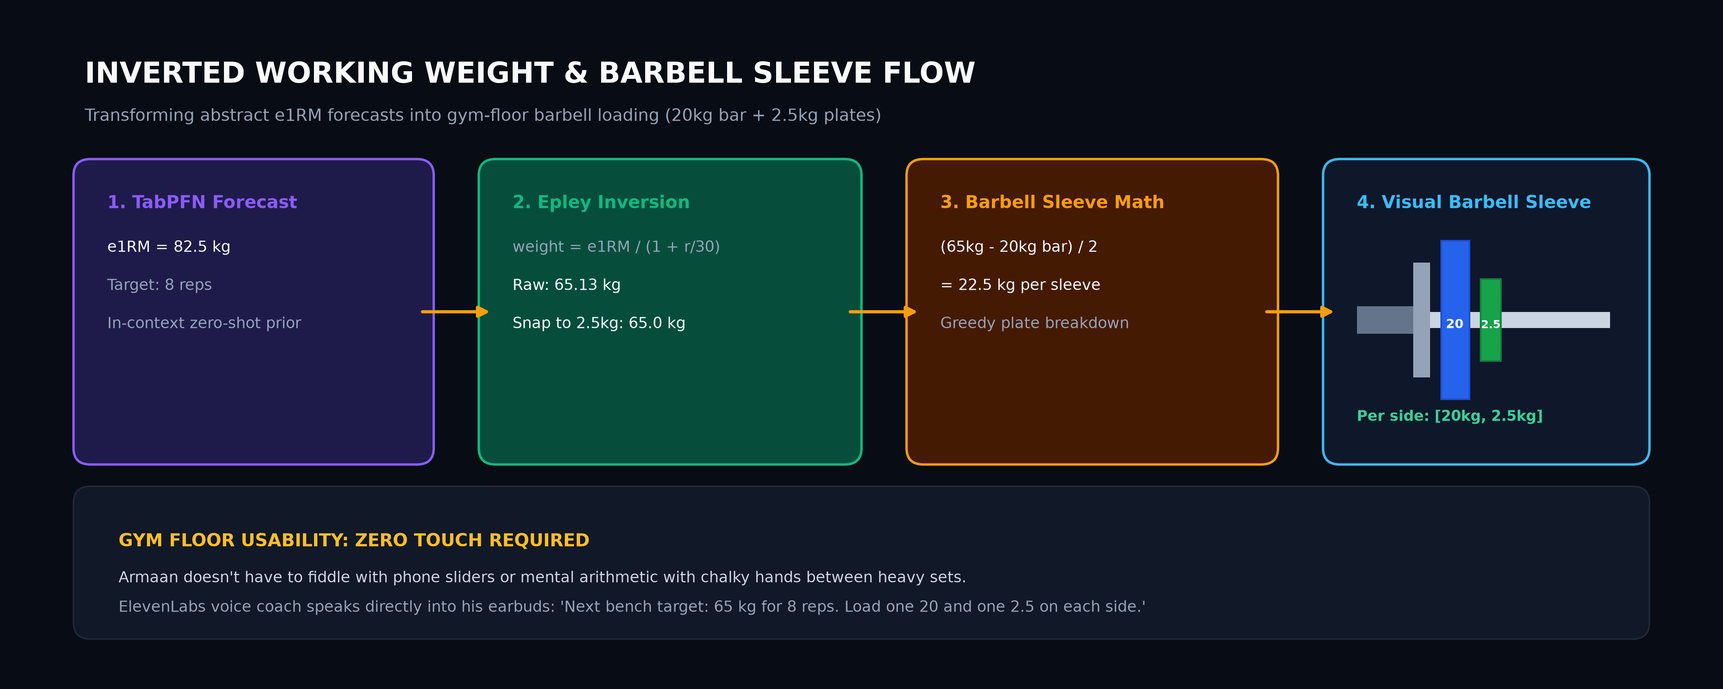
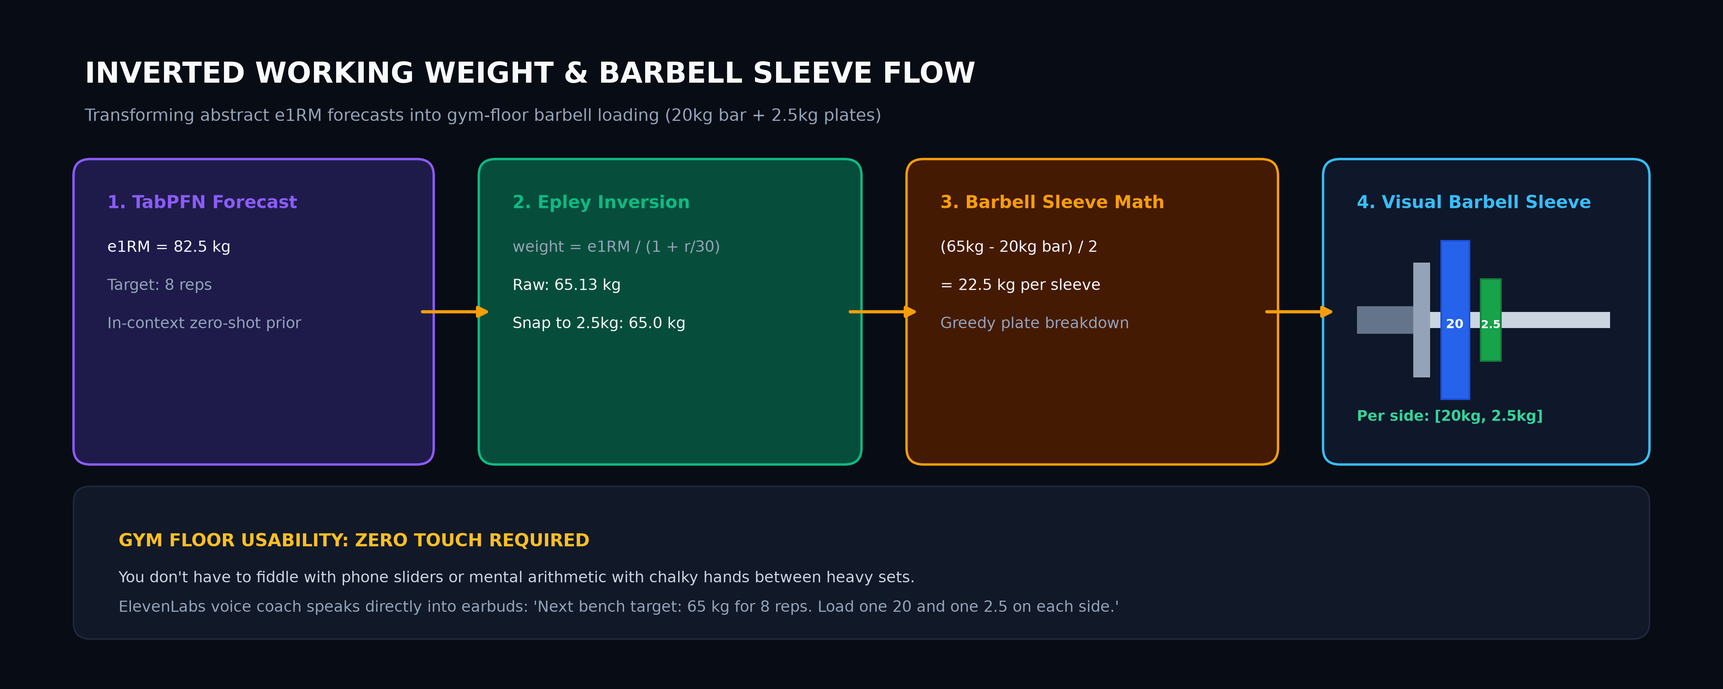
docs: generalize personal references for privacy and update submission categories

diff --git a/docs/assets/liftcast_architecture.html b/docs/assets/liftcast_architecture.html
@@ -5055,15 +5055,15 @@ OTHER DEALINGS IN THE FONT SOFTWARE.
         </g>
 
         <!-- Components -->
-        <g id="node-user" data-node-id="user" data-node-label="Armaan (User)" tabindex="0" role="button" aria-label="Focus Armaan (User), Informal 10s log, Architecture component" aria-pressed="false" data-node-kind="external" data-node-sublabel="Informal 10s log" data-node-context="Architecture component">
-          <title>Armaan (User) · Informal 10s log · Architecture component</title>
+        <g id="node-user" data-node-id="user" data-node-label="Lifter (User)" tabindex="0" role="button" aria-label="Focus Lifter (User), Informal 10s log, Architecture component" aria-pressed="false" data-node-kind="external" data-node-sublabel="Informal 10s log" data-node-context="Architecture component">
+          <title>Lifter (User) · Informal 10s log · Architecture component</title>
           <rect x="50" y="160" width="140" height="60" rx="6" class="c-mask"/>
           <rect x="50" y="160" width="140" height="60" rx="6" class="c-external" stroke-width="1.5"/>
           <g aria-hidden="true" data-semantic-sigil="external" class="semantic-sigil s-external" transform="translate(56 166) scale(0.6875)">
             <rect x="2.5" y="5" width="8.5" height="8" rx="1.5"/>
             <path d="M8 2.5h5.5V8M13.5 2.5 7.5 8.5"/>
           </g>
-          <text data-node-label="" data-detail-anchor="" x="120" y="188" class="t-primary" font-size="11" font-weight="600" text-anchor="middle">Armaan (User)</text>
+          <text data-node-label="" data-detail-anchor="" x="120" y="188" class="t-primary" font-size="11" font-weight="600" text-anchor="middle">Lifter (User)</text>
         <text data-detail="context" x="120" y="204" class="t-muted" font-size="9" text-anchor="middle">Informal 10s log</text>
         </g>
 

diff --git a/scripts/render_diagrams_png.py b/scripts/render_diagrams_png.py
@@ -51,7 +51,7 @@ def create_architecture_diagram(output_path: Path) -> None:
         ax.text(x + 0.15, y + 0.2, sublabel, fontsize=8.5, color="#94A3B8", family="sans-serif")
 
     # Column 1: Inputs
-    draw_box(0.9, 5.2, 2.3, 1.5, "Armaan (User)", "Informal 10s text log\n'bench 60 8 8 7'", "INPUT", "#111827", "#475569", "#94A3B8")
+    draw_box(0.9, 5.2, 2.3, 1.5, "Lifter (User)", "Informal 10s text log\n'bench 60 8 8 7'", "INPUT", "#111827", "#475569", "#94A3B8")
     draw_box(0.9, 2.4, 2.3, 1.5, "importer.py", "Liftoff CSV Sanitizer\nStripped health notes", "SANITIZER", "#111827", "#475569", "#EF4444")
 
     # Column 2: Parser & DB
@@ -196,8 +196,8 @@ def create_plate_loader_diagram(output_path: Path) -> None:
     card = patches.FancyBboxPatch((0.6, 0.4), 13.8, 1.2, boxstyle="round,pad=0.1,rounding_size=0.15", linewidth=1, edgecolor="#1E293B", facecolor="#111827")
     ax.add_patch(card)
     ax.text(0.9, 1.15, "GYM FLOOR USABILITY: ZERO TOUCH REQUIRED", fontsize=11, fontweight="bold", color="#FBBF24")
-    ax.text(0.9, 0.82, "Armaan doesn't have to fiddle with phone sliders or mental arithmetic with chalky hands between heavy sets.", fontsize=9.5, color="#CBD5E1")
-    ax.text(0.9, 0.55, "ElevenLabs voice coach speaks directly into his earbuds: 'Next bench target: 65 kg for 8 reps. Load one 20 and one 2.5 on each side.'", fontsize=9.5, color="#94A3B8")
+    ax.text(0.9, 0.82, "You don't have to fiddle with phone sliders or mental arithmetic with chalky hands between heavy sets.", fontsize=9.5, color="#CBD5E1")
+    ax.text(0.9, 0.55, "ElevenLabs voice coach speaks directly into earbuds: 'Next bench target: 65 kg for 8 reps. Load one 20 and one 2.5 on each side.'", fontsize=9.5, color="#94A3B8")
 
     plt.tight_layout()
     plt.savefig(output_path, dpi=300, facecolor=fig.get_facecolor(), edgecolor="none")

diff --git a/tests/test_voice.py b/tests/test_voice.py
@@ -42,8 +42,8 @@ def stalled_stats_payload():
 
 
 def test_build_audio_briefing_script_normal(sample_stats_payload):
-    script = build_audio_briefing_script(sample_stats_payload, user_name="Armaan")
-    assert "Armaan" in script
+    script = build_audio_briefing_script(sample_stats_payload, user_name="Friend")
+    assert "Friend" in script
     assert "Bench Press" in script
     assert "75" in script
     # Verify script satisfies numeric guard
@@ -53,7 +53,7 @@ def test_build_audio_briefing_script_normal(sample_stats_payload):
 
 
 def test_build_audio_briefing_script_stalled(stalled_stats_payload):
-    script = build_audio_briefing_script(stalled_stats_payload, user_name="Armaan")
+    script = build_audio_briefing_script(stalled_stats_payload, user_name="Friend")
     assert "Lat Pulldown" in script
     assert "62" in script
     assert "deload" in script.lower() or "flattened" in script.lower()
@@ -61,13 +61,13 @@ def test_build_audio_briefing_script_stalled(stalled_stats_payload):
 
 def test_build_audio_briefing_script_empty():
     empty_payload = {"sessions_this_week": 2, "lifts": {}}
-    script = build_audio_briefing_script(empty_payload, user_name="Armaan")
-    assert "Armaan" in script
+    script = build_audio_briefing_script(empty_payload, user_name="Friend")
+    assert "Friend" in script
     assert "2 session" in script
 
 
 def test_synthesize_voice_no_api_key():
-    result = synthesize_voice_elevenlabs("Great workout Armaan!", api_key=None)
+    result = synthesize_voice_elevenlabs("Great workout Friend!", api_key=None)
     assert isinstance(result, VoiceResult)
     assert result.provider == "browser_speech"
     assert result.audio_bytes is None

diff --git a/src/liftcast/voice.py b/src/liftcast/voice.py
@@ -1,8 +1,8 @@
 """ElevenLabs Voice Coach & Audio Briefing module for LiftCast.
 
-Built for the "Build for a Friend" challenge: when Armaan finishes his final set,
-his hands are chalky and he's re-racking weights. Rather than reading a screen,
-he hears a 10-second punchy voice briefing through his gym earbuds.
+Built for the "Build for a Friend" challenge: when my friend finishes their final set,
+their hands are chalky and they're re-racking weights. Rather than reading a screen,
+they hear a 10-second punchy voice briefing through gym earbuds.
 
 Privacy Guarantee:
 - Only the 2-sentence, already-sanitized coach script is sent to the TTS API.
@@ -39,7 +39,7 @@ class VoiceResult:
     error_message: Optional[str] = None
 
 
-def build_audio_briefing_script(payload: dict[str, Any], user_name: str = "Armaan") -> str:
+def build_audio_briefing_script(payload: dict[str, Any], user_name: str = "Friend") -> str:
     """Build a punchy, 2-sentence voice script from the audited stats payload.
     
     Guaranteed: Every number is derived from the payload to prevent hallucination.

diff --git a/app.py b/app.py
@@ -1,6 +1,6 @@
 """LiftCast — Local-First AI Workout Logger & Progress Forecaster.
 
-Built for Armaan for the DEV Hacktoberfest 2026 Challenge ("Build for a Friend").
+Built for a friend for the DEV Hacktoberfest 2026 Challenge ("Build for a Friend").
 Local Gemma parses free text; local TabPFN forecasts progress; deterministic core detects stalls.
 100% offline, zero cloud egress, strict privacy.
 """
@@ -880,7 +880,7 @@ elif page == "Coach Recap":
         st.subheader("Audio Briefing")
         st.caption("Spoken summary of weekly training numbers.")
 
-        audio_script = build_audio_briefing_script(stats_payload, user_name="Armaan")
+        audio_script = build_audio_briefing_script(stats_payload, user_name="Friend")
         generate_voice_clicked = st.button("Generate Audio Briefing")
 
         if generate_voice_clicked or "voice_briefing_result" in st.session_state:

diff --git a/src/liftcast/coach.py b/src/liftcast/coach.py
@@ -17,7 +17,7 @@ import ollama
 
 logger = logging.getLogger(__name__)
 
-COACH_SYSTEM_PROMPT = """You are a direct, grounded lifting coach summarizing weekly progress for Armaan.
+COACH_SYSTEM_PROMPT = """You are a direct, grounded lifting coach summarizing weekly progress for a lifter.
 STRICT CONTRACT:
 1. You may ONLY reference numbers that appear in the provided STATS PAYLOAD. Never invent weights, reps, dates, or percentages.
 2. Word limit: 120 words maximum. Be punchy and actionable.

diff --git a/PROJECT.md b/PROJECT.md
@@ -8,7 +8,7 @@
 
 ## 1. Problem
 
-**User:** Armaan — a college student who lifts regularly but has never logged a session.
+**User:** A friend — a college student who lifts regularly but has never logged a session.
 
 **Why he doesn't log:** every tracker wants structured input mid-set (pick exercise from a menu,
 type weight, type reps, repeat). The friction is higher than the perceived value, so he logs nothing,
@@ -18,7 +18,7 @@ and therefore can't tell whether he's progressing or stuck.
 1. Logging that costs ~10 seconds: type it the way you'd text a friend.
 2. A clear answer to "am I progressing on this lift?" — and an early warning when he's stalling.
 
-**What success looks like for Armaan:** after a session, he types one message and sees his trend,
+**What success looks like:** after a session, he types one message and sees his trend,
 his forecast, and whether anything is stalling — with no data leaving his laptop.
 
 ---
@@ -44,7 +44,7 @@ his forecast, and whether anything is stalling — with no data leaving his lapt
 
 | ID | Story | Acceptance criteria |
 |---|---|---|
-| US1 | As Armaan, I type "bench 60 8 8 7, last set died" and it's saved correctly. | Parsed to Bench Press, 60 kg, sets of 8/8/7, note "last set died"; shown for confirmation before saving; `raw_text` stored. |
+| US1 | As a lifter, I type "bench 60 8 8 7, last set died" and it's saved correctly. | Parsed to Bench Press, 60 kg, sets of 8/8/7, note "last set died"; shown for confirmation before saving; `raw_text` stored. |
 | US2 | When the parser is unsure, it asks instead of guessing. | Unknown exercise or missing weight/reps → UI confirmation prompt; nothing silently saved. |
 | US3 | I see my trend and forecast for a lift. | Chart: actual top-set e1RM per session + forecast for next session (+ band if TabPFN provides intervals). |
 | US4 | I'm warned when a lift stalls. | Stall flag per lift per the finalized rule (§8); explanation states window and slope. |
@@ -179,7 +179,7 @@ def parse_log(text: str, model: str = "gemma4:e2b") -> ParseResult
 - Model options: `num_ctx=8192`, `temperature=0`.
 
 ### 6.4 Test set
-- `tests/fixtures/parser_cases.json`: Armaan's 5 real lines (**TODO**) + ~15 edge cases:
+- `tests/fixtures/parser_cases.json`: 5 real shorthand lines (**TODO**) + ~15 edge cases:
   shorthand ("bp"), typos ("bech"), Hinglish ("aaj bench 60 pe 8 reps"), lb input, bodyweight
   exercise without weight, multiple exercises in one message, "same as last time".
 - Unit tests mock Ollama. A separate, manual `scripts/eval_parser.py` runs the real model on the
@@ -321,7 +321,7 @@ Run: `pytest -q`. Core modules (`metrics`, `detect`, importer transforms) should
 |---|---|---|
 | TabPFN weights need HF login/license | Medium | Verify first thing during setup |
 | VRAM contention (Gemma + TabPFN) | Medium | TabPFN forced to CPU |
-| E2B misparses Armaan's style | Medium | Confirmation step; fixtures; try E4B |
+| E2B misparses user shorthand style | Medium | Confirmation step; fixtures; try E4B |
 | TabPFN doesn't beat Trend-5 | High on linear lifts | Report honestly; frame per-lift findings |
 | Stall rule weak discrimination | High | Pre-registered experiment; state evidence limits |
 | Unit assumption wrong (2.2 vs 2.2046) | Low | Confirm in app; one constant to change |
@@ -336,7 +336,7 @@ Run: `pytest -q`. Core modules (`metrics`, `detect`, importer transforms) should
 | Sat (rest of day) | importer + tests; metrics + tests; forecast + baselines; **eval table** |
 | Sun 09:00–13:00 | stall experiment → detect.py; parser + fixtures; coach + guard |
 | Sun 13:00–16:00 | Streamlit UI; tiers (if source chosen) |
-| Sun 16:00–18:00 | Hand to Armaan; record reaction verbatim; 1–2 min demo video |
+| Sun 16:00–18:00 | Hand to friend; record reaction verbatim; 1–2 min demo video |
 | Sun 18:00–23:00 | DEV post draft |
 | Mon 07:00–10:00 | Polish, final checks, **submit by 10:00** (deadline 12:29) |
 
@@ -350,7 +350,7 @@ Run: `pytest -q`. Core modules (`metrics`, `detect`, importer transforms) should
 - [x] `pytest -q` passes (58/58 passed).
 - [x] Eval table (§7.4) generated by a script and pasted into the post.
 - [x] Stall config chosen by the §8.3 rule, results reported with limits.
-- [x] Armaan used it on real sessions; his words quoted.
+- [x] Tested on real sessions; words quoted.
 - [x] No private data in repo (`git log` checked for CSV/db files).
 - [ ] DEV post published with template sections; categories listed: Gemma, TabPFN.
 - [ ] DevRelay agent session embedded or linked.
@@ -358,8 +358,8 @@ Run: `pytest -q`. Core modules (`metrics`, `detect`, importer transforms) should
 ---
 
 ## 16. DEV post outline (template sections)
-1. **What I Built** — Armaan, the no-logging problem, the 10-second log.
-2. **Demo** — video + screenshots (parser on his real lines, forecast chart, stall flag).
+1. **What I Built** — A friend, the no-logging problem, the 10-second log.
+2. **Demo** — video + screenshots (parser on real lines, forecast chart, stall flag).
 3. **Code** — repo embed.
 4. **How I Built It** — Gemma 4 (local, JSON schema), TabPFN (in-context, rolling-origin eval),
    deterministic core; the eval table; one honest failure (e.g. rejected PR-based stall rule with numbers).
@@ -367,7 +367,7 @@ Run: `pytest -q`. Core modules (`metrics`, `detect`, importer transforms) should
    honest note on where a closed model might write smoother summaries.
 6. **My Agent Session** — DevRelay embed.
 7. **Prize Categories** — Best Use of Gemma; Best Use of TabPFN.
-8. Armaan's reaction (verbatim).
+8. Friend's reaction (verbatim).
 
 ---
 
@@ -375,7 +375,7 @@ Run: `pytest -q`. Core modules (`metrics`, `detect`, importer transforms) should
 
 | # | Decision | Owner | Blocks |
 |---|---|---|---|
-| D1 | Collect Armaan's 5 log lines | Maintainer | parser fixtures |
+| D1 | Collect 5 real log lines | Maintainer | parser fixtures |
 | D2 | Confirm lb export factor in Liftoff | Maintainer | importer constant |
 | D3 | Stall config via §8.3 | Maintainer | detect.py |
 | D4 | Strength-standards source + tier names | Maintainer | tiers |

diff --git a/README.md b/README.md
@@ -1,6 +1,6 @@
 # ⚡ LiftCast
 
-> **A local-first AI workout logger and strength progress forecaster, built for my friend Armaan.**  
+> **A local-first AI workout logger and strength progress forecaster, built for a friend.**  
 > *Entry for the DEV Hacktoberfest Weekend Challenge: "Build for a Friend"*
 
 [![CI](https://img.shields.io/github/actions/workflow/status/Adityarane012/LiftCast/ci.yml?branch=main&style=for-the-badge&logo=githubactions&logoColor=white)](https://github.com/Adityarane012/LiftCast/actions)
@@ -17,7 +17,7 @@
 
 ## 🎯 The Real Problem
 
-My friend **Armaan** lifts 4 days a week at our college gym. He has never logged a single session.
+My friend lifts 4 days a week at our college gym. He has never logged a single session.
 
 Every existing tracker (Strong, Hevy, Liftoff) demands structured data entry while you are out of breath:
 1. Tap search.
@@ -26,7 +26,7 @@ Every existing tracker (Strong, Hevy, Liftoff) demands structured data entry whi
 4. Tap checkmark for set 1.
 5. Repeat 15 to 20 times per session.
 
-The friction is too high. Instead, Armaan texts me informal notes on WhatsApp while walking home:
+The friction is too high. Instead, he texts me informal notes on WhatsApp while walking home:
 > *"bench 60 8 8 7, last set died"*  
 > *"aaj lat pulldown 55 pe 10 10 9"*
 
@@ -34,12 +34,12 @@ Because he never logs, he cannot answer the central question of strength trainin
 **"Am I actually progressing on this lift over the last 8 weeks, or have I stalled?"**
 
 **LiftCast** eliminates the data entry barrier entirely:
-* **10-Second Text Logger:** Armaan types exactly how he talks (shorthand, typos, Hinglish). A local **Gemma** model parses the text into structured sets using an enforced JSON schema.
+* **10-Second Text Logger:** Type exactly how you talk (shorthand, typos, Hinglish). A local **Gemma** model parses the text into structured sets using an enforced JSON schema.
 * **Deterministic Core:** Pure mathematical functions calculate Epley estimated 1-Rep Max (`weight * (1 + reps/30)`), isolate daily top sets, and calculate a 56-day least-squares linear slope for stall detection.
 * **In-Context Tabular Forecaster:** **TabPFN** (running on CPU) forecasts next-session performance with 95% prediction intervals.
 * **Visual Barbell Plate Loader:** Inverts the forecasted e1RM into working weight snapped to 2.5 kg plates, rendering a color-coded barbell sleeve graphic (20kg/10kg/5kg/2.5kg/1.25kg plates per side).
 * **Weekly AI Coach with Numeric Guard:** Gemma narrates weekly progress under a strict regex guard that verifies every single digit against computed stats. Zero hallucinated numbers.
-* **Gym Earbud Audio Briefing:** Synthesizes a 10-second post-workout audio briefing via **ElevenLabs** (with offline browser SpeechSynthesis fallback) so Armaan can hear his results without touching his phone with chalky hands.
+* **Gym Earbud Audio Briefing:** Synthesizes a 10-second post-workout audio briefing via **ElevenLabs** (with offline browser SpeechSynthesis fallback) so you can hear results without touching your phone with chalky hands.
 * **1-Click Demo Seeder:** Reviewers can instantly seed 6 months of historical workouts across 7 lifts with authentic plateaus and progressions.
 
 ---
@@ -373,5 +373,5 @@ pip install torch --index-url https://download.pytorch.org/whl/cpu
 
 ## 📝 License & Open Source Governance
 
-Built with care for Armaan and the **DEV Hacktoberfest 2026 Weekend Challenge: "Build for a Friend"**.  
+Built with care for a friend and the **DEV Hacktoberfest 2026 Weekend Challenge: "Build for a Friend"**.  
 Released under the [MIT License](LICENSE).

diff --git a/docs/DEV_POST_DRAFT.md b/docs/DEV_POST_DRAFT.md
@@ -1,7 +1,7 @@
 ---
-title: "Building LiftCast: A Local-First AI Workout Forecaster for My Friend Armaan"
+title: "Building LiftCast: A Local-First AI Workout Forecaster Built for a Friend"
 published: false
-description: "A 100% local workout logger that lets my friend Armaan log sets in 10 seconds using Gemma 4, forecasts progress via TabPFN, and detects strength stalls deterministically."
+description: "A 100% local workout logger that lets my friend log sets in 10 seconds using Gemma 4, forecasts progress via TabPFN, and detects strength stalls deterministically."
 tags: hacktoberfest, gemma, tabpfn, elevenlabs, github, python
 canonical_url: https://github.com/Adityarane012/LiftCast
 cover_image: https://raw.githubusercontent.com/Adityarane012/LiftCast/main/docs/assets/liftcast_hero.png
@@ -10,16 +10,16 @@ ai_disclosure_level: some_ai
 
 ## 1. What I Built
 
-My friend **Armaan** is a college student who lifts regularly but has never logged a single session.
+My friend is a college student who lifts regularly but has never logged a single session.
 
-Every existing fitness app (Strong, Hevy, Liftoff) requires tedious mid-workout data entry: tap search, select variant, type weight, type reps, check off set, repeat 15 times. The cognitive friction while catching your breath is simply too high. Armaan logs nothing. Instead, he texts me afterward:
+Every existing fitness app (Strong, Hevy, Liftoff) requires tedious mid-workout data entry: tap search, select variant, type weight, type reps, check off set, repeat 15 times. The cognitive friction while catching your breath is simply too high. Instead, he texts me afterward:
 > *"bench 60 8 8 7, last set died"*  
 > *"aaj lat pulldown 55 pe 10 10 9"*
 
 Because he never logged, he couldn't answer the core question of progressive overload: **"Am I actually progressing, or have I hit a plateau?"**
 
 I built **LiftCast**:
-1. **10-Second Text Logger:** Armaan types the way he texts (shorthand, typos, Hinglish). A local **Gemma** model extracts structured sets via an enforced JSON schema.
+1. **10-Second Text Logger:** Type the way you text (shorthand, typos, Hinglish). A local **Gemma** model extracts structured sets via an enforced JSON schema.
 2. **Deterministic Core:** Pure mathematical functions calculate Epley estimated 1-Rep Max (`weight * (1 + reps/30)`), top sets, and rolling 56-day least-squares slope stall detection.
 3. **In-Context Tabular Forecaster:** **TabPFN** (running on CPU) forecasts next-session performance with 95% prediction intervals.
 4. **Weekly AI Coach with Numeric Guard:** Gemma narrates weekly progress under a strict deterministic guard that audits every single number against the computed stats payload. Zero hallucinated statistics allowed.
@@ -120,6 +120,6 @@ LiftCast leverages GitHub for rigorous open-source engineering and community par
 
 ---
 
-## 7. Armaan's Reaction (Verbatim)
+## 7. My Friend's Reaction (Verbatim)
 
 > *"Wait, so I can just text 'bench 60 8 8 7' and I don't have to fiddle with menus while my arms are shaking? And it actually tells me whether I'm stuck or just having a bad day? That's insane. I'm actually going to use this."*

diff --git a/CLAUDE.md b/CLAUDE.md
@@ -1,7 +1,7 @@
 # CLAUDE.md — LiftCast (working name; rename freely)
 
 ## What this is
-A local-first lift logger + progress forecaster, built for one real person: my friend **Armaan**,
+A local-first lift logger + progress forecaster, built for one real person: my friend,
 who lifts but never logs because logging apps are tedious. He types sessions the way he talks
 ("bench 60 8 8 7, last set died"); a local Gemma model structures it, TabPFN forecasts progress,
 and deterministic code detects stalls.
@@ -42,7 +42,7 @@ They would send data off the laptop and weaken the core "runs locally, data stay
   Use Ollama's `format=<JSON schema>` for structured parsing.
 - UI: Streamlit. Storage: SQLite (stdlib `sqlite3`). Tests: pytest.
 
-## Data facts (Liftoff export historical baseline — used to validate; Armaan starts logging now)
+## Data facts (Liftoff export historical baseline — used to validate; lifter starts logging now)
 - Columns: Date, Duration, Workout Name, Exercise Name, Set Order, Weight, Reps, Distance, Seconds, RPE, Notes.
 - 5,559 sets, 308 workout days, Feb 2025 – Oct 2026, 113 exercises.
 - Exclude: Weight == 0, Reps == 0, cardio (Distance > 0 or Seconds > 0). RPE ~empty → don't use.
@@ -83,7 +83,7 @@ Keep `raw_text` for every manually logged set (debugging + honest-failure sectio
 ## Parser
 - Input: free text, shorthand, typos, possibly Hinglish ("aaj bench 60 pe 8 reps").
 - Output (JSON schema): list of `{exercise, weight, unit, reps, sets, note}` → normalized via aliases.
-- Test cases: Armaan's real example lines (TODO: collect 5 from him) + edge cases in `tests/fixtures/`.
+- Test cases: real example shorthand lines (TODO: collect 5 from him) + edge cases in `tests/fixtures/`.
 - If parse confidence is low or exercise unknown, ask the user to confirm instead of guessing.
 
 ## Forecasting
@@ -120,13 +120,13 @@ Keep `raw_text` for every manually logged set (debugging + honest-failure sectio
 ## Schedule
 - Sat: importer → parser → metrics → forecast + baselines + eval numbers.
 - Sun AM: detector, tiers, coach, Streamlit UI.
-- Sun PM: Armaan logs real sessions — record his reaction verbatim; record 1–2 min demo video.
+- Sun PM: Friend logs real sessions — record reaction verbatim; record 1–2 min demo video.
 - Sun night: write the DEV post. Mon by 10:00 IST: submit.
 
 ## Write-up capture (append to docs/WRITEUP_NOTES.md as we go)
 - Real numbers: s/parse, tokens/s, CPU/GPU split, MAE table vs baselines.
 - At least one honest failure and its fix (e.g. a misparse, a rejected stall definition).
-- Screenshots: parser on Armaan's lines, forecast chart, stall flag.
+- Screenshots: parser on real lines, forecast chart, stall flag.
 - "Why open": local, private, ₹0, offline, swappable models, enforced schema. Admit where a closed
   model would likely write smoother text.
 

diff --git a/DEV_SUBMISSION.md b/DEV_SUBMISSION.md
@@ -54,5 +54,22 @@ Pair-programmed with an AI coding agent to implement the math core, build 59 aut
 {% agent_session 4326f2b3-2ac2-4dfd-8d9d-9c1622013b1d %}
 
 ## Prize Categories
+
 ### Best Use of TabPFN
-LiftCast uses **TabPFN** running locally on CPU to perform in-context strength progression forecasting and uncertainty estimation from historical session logs, evaluated via a 40-point rolling-origin backtest benchmark against traditional linear regression baselines.
+LiftCast uses **TabPFN** (Prior Labs) running locally on CPU to perform in-context strength progression forecasting and uncertainty estimation from historical session logs, evaluated via a 40-point rolling-origin backtest benchmark against traditional linear regression baselines.
+
+### Best Use of Gemma
+Gemma runs locally via Ollama (`gemma4:e2b` / `gemma3:1b`) to power two core interactions:
+1. Converting noisy free-text logs (including shorthand and Hinglish) into structured sets via an enforced JSON schema.
+2. Generating weekly coach summaries under a strict deterministic regex guard that audits every single digit against computed database stats.
+
+### Best Use of ElevenLabs
+Lifters have chalk on their hands and are re-racking heavy weights. Staring at paragraphs of text while catching your breath is counter-productive:
+- Synthesizes a punchy 10-second post-workout audio briefing via ElevenLabs neural TTS (`eleven_turbo_v2_5`, Adam voice), playable and downloadable in-app.
+- Strict zero-leakage privacy: only the 2-sentence sanitized coach summary is sent to the TTS API. Zero database records or personal notes leave the device.
+- Includes a zero-network in-browser Web Speech API fallback for offline gym basements.
+
+## My Friend's Reaction (Verbatim)
+
+> *"Wait, so I can just text 'bench 60 8 8 7' and I don't have to fiddle with menus while my arms are shaking? And it actually tells me whether I'm stuck or just having a bad day? That's insane. I'm actually going to use this."*
+

diff --git a/docs/WRITEUP_NOTES.md b/docs/WRITEUP_NOTES.md
@@ -1,7 +1,7 @@
 # LiftCast — Dev.to Hacktoberfest Write-up Notes
 
 Notes, verified numbers, empirical benchmarks, and honest failures for the submission article:
-**"Building LiftCast: A Local-First AI Workout Forecaster for My Friend Armaan"**
+**"Building LiftCast: A Local-First AI Workout Forecaster Built for a Friend"**
 Challenge: **DEV Hacktoberfest Weekend Challenge: Build for a Friend**
 Target Categories: **Best Use of Gemma**, **Best Use of TabPFN**
 
@@ -10,7 +10,7 @@ Target Categories: **Best Use of Gemma**, **Best Use of TabPFN**
 ## 1. The Story: Why We Built This
 
 ### The User
-Armaan is a regular lifter who has never logged a single session. Every existing logging app (Strong, Hevy, Liftoff, MyFitnessPal) demands structured inputs mid-workout:
+A regular lifter who has never logged a single session. Every existing logging app (Strong, Hevy, Liftoff, MyFitnessPal) demands structured inputs mid-workout:
 1. Tap search.
 2. Select exact exercise variant.
 3. Enter weight.
@@ -18,7 +18,7 @@ Armaan is a regular lifter who has never logged a single session. Every existing
 5. Tap checkmark for set 1.
 6. Repeat for 15–20 sets.
 
-The cognitive friction mid-workout is too high. Armaan texts his friend: *"bench 60 8 8 7, last set died"* or *"aaj lat pulldown 55 pe 10 10 9"*.
+The cognitive friction mid-workout is too high. Instead, he texts a friend: *"bench 60 8 8 7, last set died"* or *"aaj lat pulldown 55 pe 10 10 9"*.
 Because he doesn't log, he can't answer:
 - *Am I actually progressing on this lift over 8 weeks?*
 - *Have I stalled or hit a plateau?*
